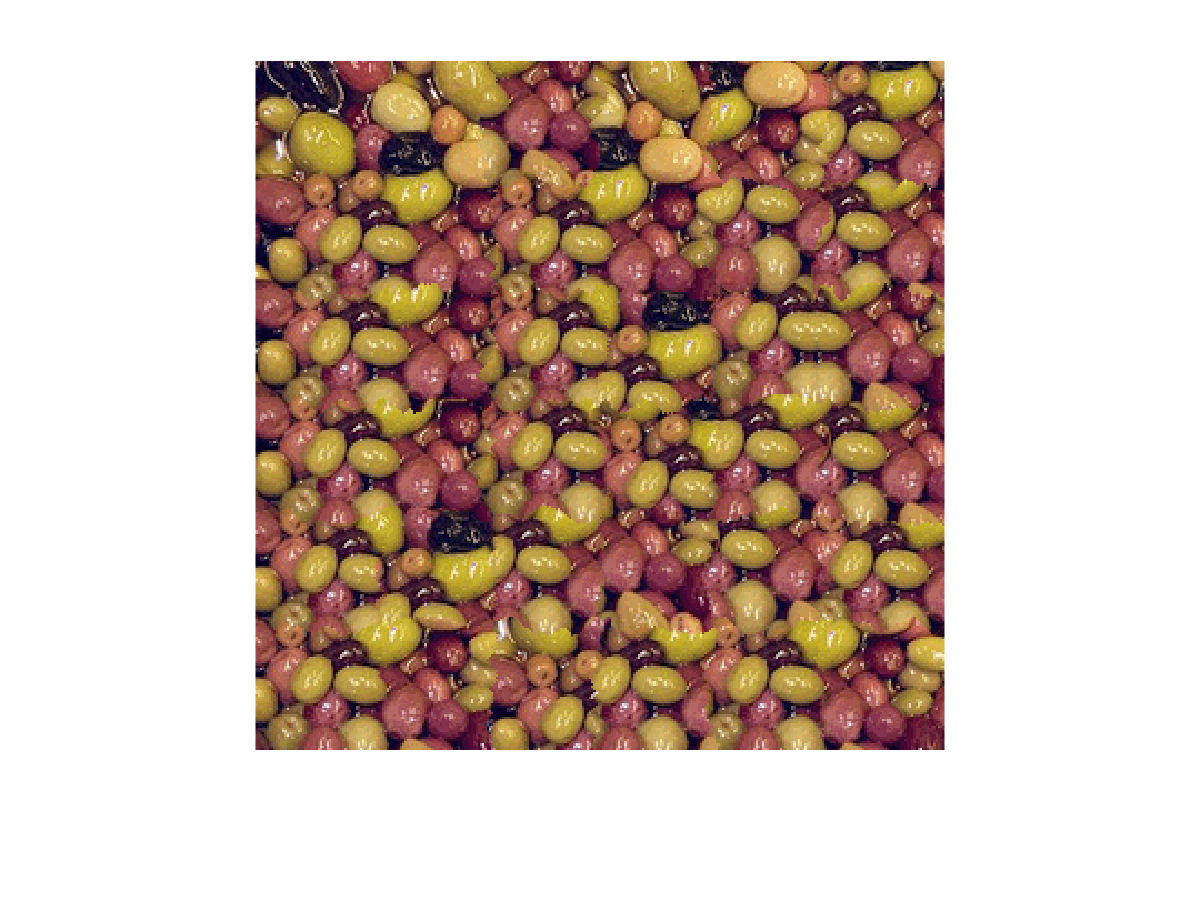
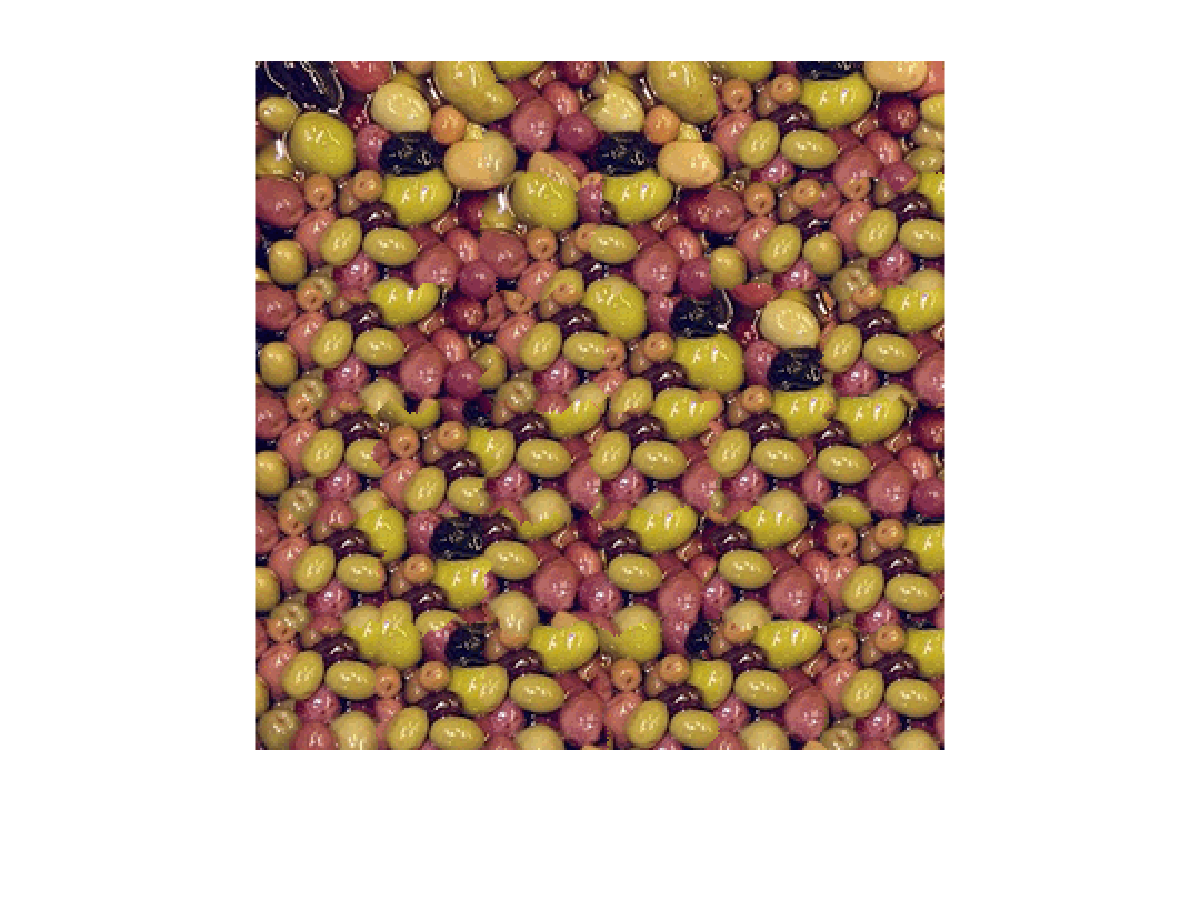
changed minerror in getpatch

diff --git a/getPatch.m b/getPatch.m
@@ -30,8 +30,7 @@ function [xi,xj] = getPatch(block_h, block_v, texture, tolerance, o, blocksize, 
         end
     end
     
-    minError = min(errors(:));
-    minError = max(minError, 0.05);
+    minError = min(errors(errors>0));
     [indi, indj] = find(errors <= tolerance*minError);
     ind = randi(length(indi),1);
     xi = indi(ind);
